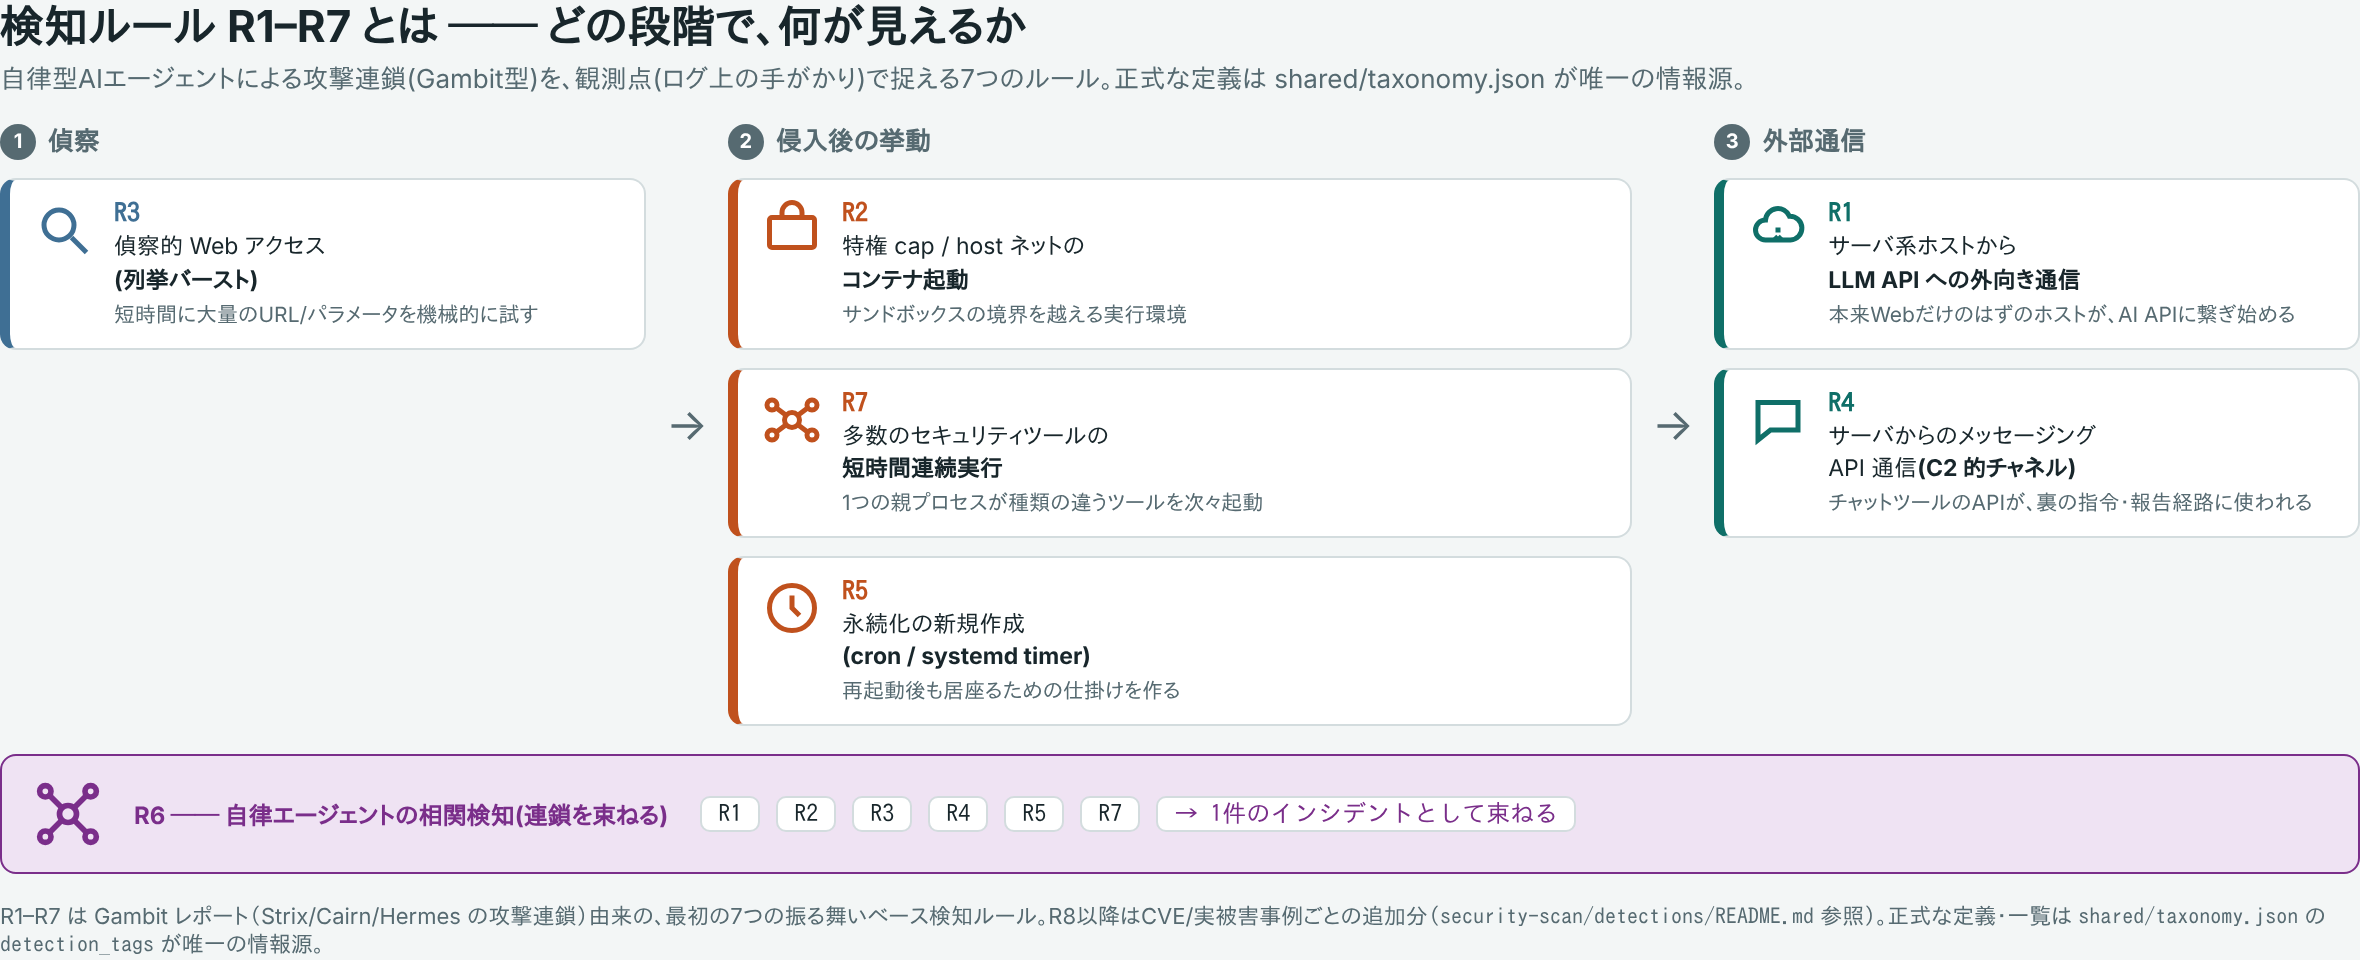
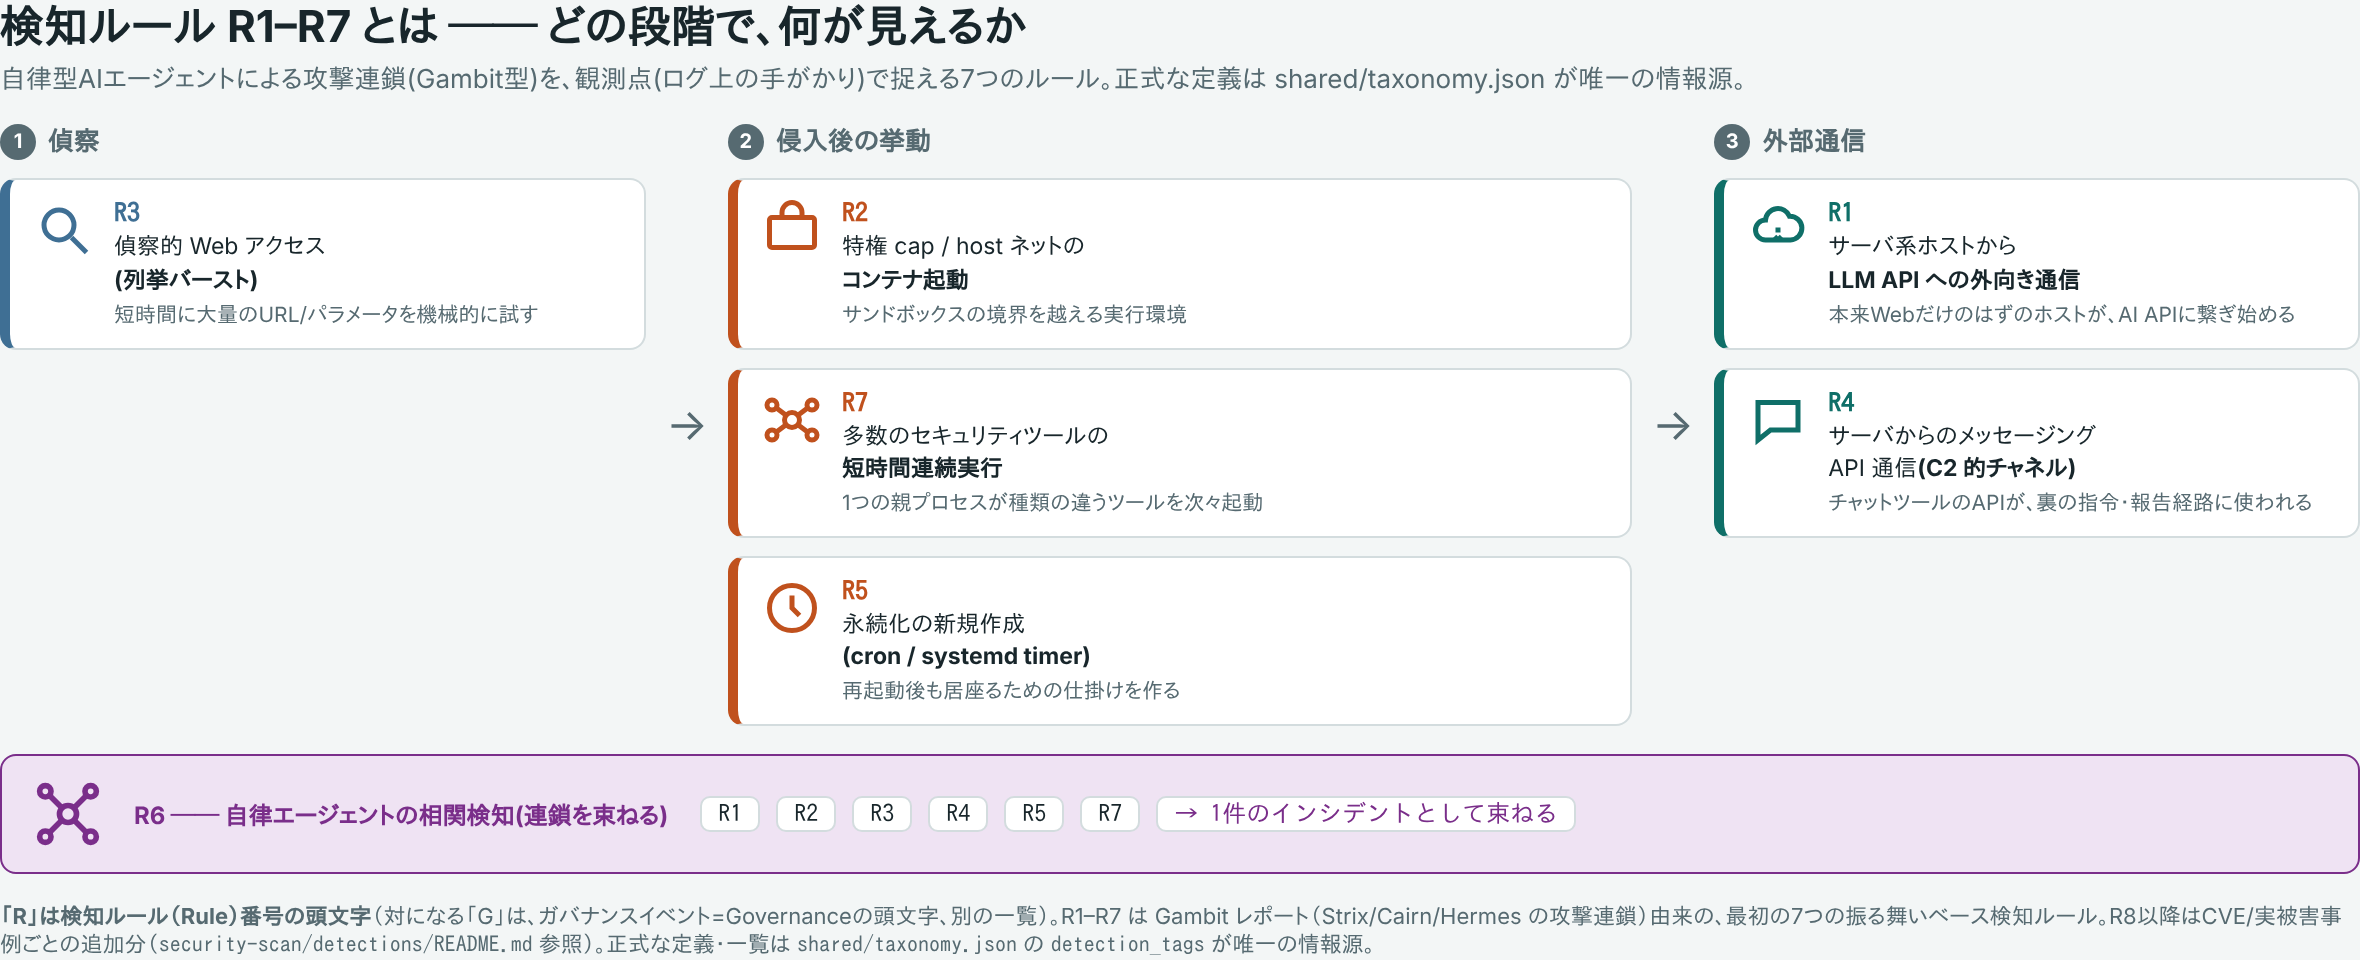
図とREADMEに「RはRuleの頭文字」の注記を追加
r1-r7-overview.png(図解)の下部に、「R」が検知ルール(Rule)番号の
頭文字であること(対になる「G」はガバナンスイベント=Governance)を
明記。README.md(英語・日本語)の画像の下にも同じ注記を追加。

Claude-Session: https://claude.ai/code/session_01WU7RygKQLoovxcYWuJ7dMK

Changed region(s): [[0.0, 0.9375, 0.9898, 1.0]]

diff --git a/r1-r7-overview-figure.html b/r1-r7-overview-figure.html
@@ -115,6 +115,6 @@ h1 small{font-size:13px;color:var(--mu);font-weight:400;display:block;margin-top
     <div class="feeds"><span>R1</span><span>R2</span><span>R3</span><span>R4</span><span>R5</span><span>R7</span><span style="color:#7a2e8a">→ 1件のインシデントとして束ねる</span></div>
   </div>
 
-  <div class="note">R1–R7 は Gambit レポート（Strix/Cairn/Hermes の攻撃連鎖）由来の、最初の7つの振る舞いベース検知ルール。R8以降はCVE/実被害事例ごとの追加分（<span style="font-family:var(--mono)">security-scan/detections/README.md</span> 参照）。正式な定義・一覧は <span style="font-family:var(--mono)">shared/taxonomy.json</span> の <span style="font-family:var(--mono)">detection_tags</span> が唯一の情報源。</div>
+  <div class="note"><b>「R」は検知ルール（Rule）番号の頭文字</b>（対になる「G」は、ガバナンスイベント=Governanceの頭文字、別の一覧）。R1–R7 は Gambit レポート（Strix/Cairn/Hermes の攻撃連鎖）由来の、最初の7つの振る舞いベース検知ルール。R8以降はCVE/実被害事例ごとの追加分（<span style="font-family:var(--mono)">security-scan/detections/README.md</span> 参照）。正式な定義・一覧は <span style="font-family:var(--mono)">shared/taxonomy.json</span> の <span style="font-family:var(--mono)">detection_tags</span> が唯一の情報源。</div>
 
 </div></body></html>

diff --git a/README.md b/README.md
@@ -22,6 +22,8 @@ Use these **only on systems you own or are authorized to test**.
 
 ![R1-R7 detection rules at a glance: which attack stage each rule observes, and R6 correlating them into one incident](r1-r7-overview.png)
 
+("R" is short for **Rule** — detection rule number; "G" (G1–G6, a separate list) is short for **Governance** event.)
+
 Legend: **本リポ** = implemented in this repository · **外部案** = external roadmap idea, evaluated in [`defense-layers-and-roadmap.md`](security-scan/defense-layers-and-roadmap.md) and not yet implemented (the `本リポ` / `外部案` labels are kept in Japanese to match the figure).
 
 > Big picture: countermeasures form one set across **prevent (③) → detect (R1–R8) → respond → recover**. Step-by-step defense along the attack chain: [`security-scan/defense-playbook.en.md`](security-scan/defense-playbook.en.md). See [`security-scan/defense-layers-and-roadmap.md`](security-scan/defense-layers-and-roadmap.md) for the mapping and [`security-scan/glossary.ja.md`](security-scan/glossary.ja.md) for plain-language term definitions.
@@ -80,6 +82,8 @@ Gambit Security レポート（2026-09-22）の、オンライン小売を狙っ
 ![防御全体像：攻撃連鎖7段と、防御の4層（予防・検知・応答・復旧）、各層のツール](defense-overview.png)
 
 ![検知ルール R1–R7 が一目でわかる図：どの攻撃段階で、どのルールが観測点になるか、R6がそれらを束ねる様子](r1-r7-overview.png)
+
+(「R」は検知ルール（**Rule**）番号の頭文字。対になる「G」（G1–G6、別の一覧）はガバナンスイベント（**Governance**）の頭文字。)
 
 凡例：**本リポ** ＝このリポジトリで実装済み ／ **外部案** ＝外部ロードマップの案。[`defense-layers-and-roadmap.md`](security-scan/defense-layers-and-roadmap.md) で評価したもので、未実装。
 
